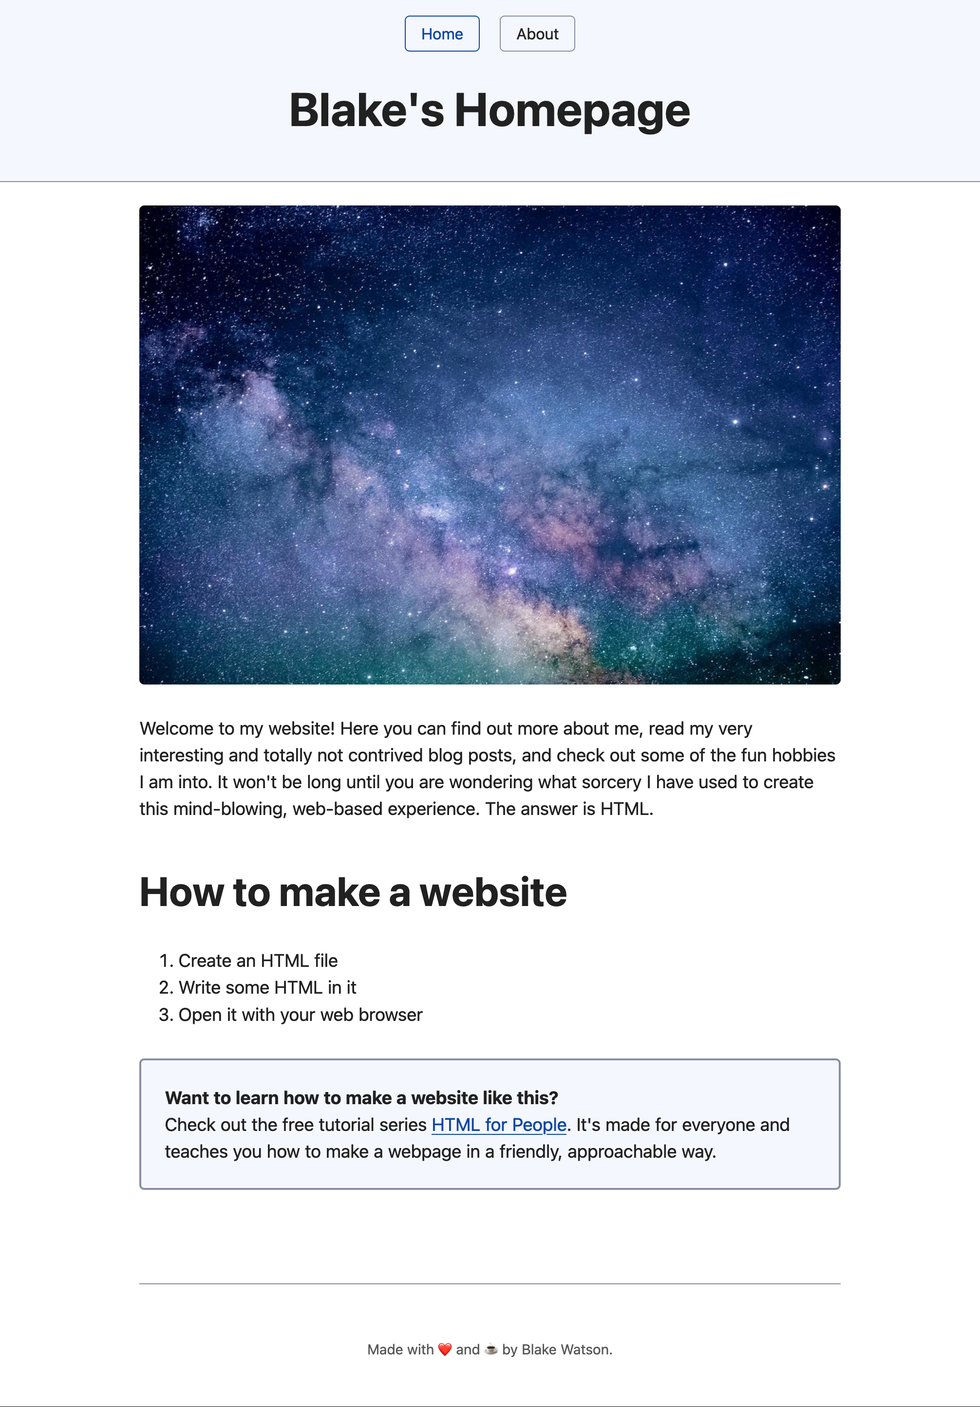
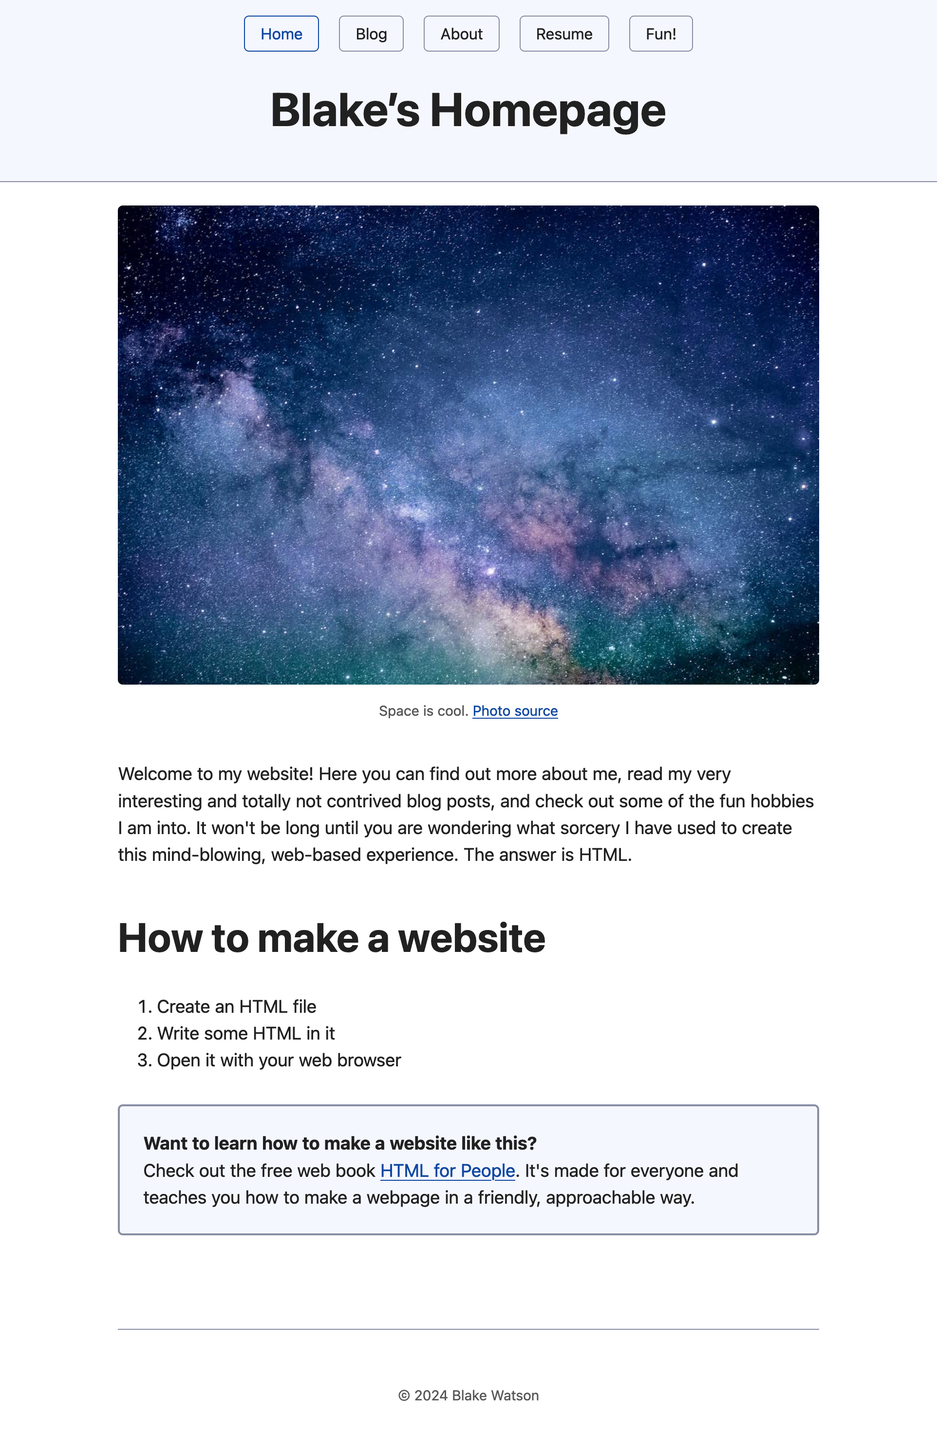
content fixes

diff --git a/src/assets/css/style.css b/src/assets/css/style.css
@@ -267,7 +267,7 @@ h2 {
 }
 
 h2 {
-  margin-block-start: 1.2em;
+  margin-block-start: 1.75em;
 }
 
 li::marker {

diff --git a/src/10-achievement-unlocked-hypertexter.md b/src/10-achievement-unlocked-hypertexter.md
@@ -30,14 +30,35 @@ So, where to now?
 
 We’ve made it through the main stuff I wanted to cover in _HTML for People_. That said there are a few topics I'd like to expand upon as something of an appendix to the main book.
 
-- **[[Customizing Simple.css]]**. Even without learning much CSS, you can change the appearance of your Simple site by overriding a few variables.
-- **[[CSS basics]]**. We'll remove Simple.css and learn how to write our own basic page styles with CSS.
-- **[[Reusable HTML with PHP]]**.  We'll take a look at how to reuse chunks of HTML—like a nav menu—by using PHP includes.
+- **[Customizing Simple.css](/customizing-simple-css)**. Even without learning much CSS, you can change the appearance of your Simple site by overriding a few variables.
+- **[CSS basics](/css-basics)**. Moving on from the Simple site, this side quest teaches you how to make a nicely designed webpage from scratch using CSS.
+- **[Reusable HTML with PHP](/reusable-html-with-php)**.  We'll take a look at how to reuse chunks of HTML—like a nav menu—by using PHP includes. This is a programming-lite introduction to dynamic websites.
 
-## Further learning
+## Resources from this book
 
-TODO: link out to third-party learning resources.
+I peppered in quite a few links along the way, pointing you to various demos and documentation. For convenience, here is a list of the main ones.
 
-- MDN
-- Kevin Powell (sp?)
-- Similar HTML/homepage guides
+### HTML for People
+
+- **[Blake's Homepage demo](https://demo.htmlforpeople.com/)**. This is my version of the site this book teaches you how to make. If you followed along and made your own site, [I'd love to here about it](https://blakewatson.com/about/#contact-me).
+- **[Blake’s Homepage source code](https://github.com/blakewatson/htmlforpeopledemo)**. This is the code repository for the demo site. Here you can browse all the code and download it if you'd like.
+- **[Blake’s Homepage, PHP version](https://github.com/blakewatson/htmlforpeopledemo/tree/php)**. This is another version of the source code where I converted the site to PHP as described in the bonus chapter, [Reusable HTML with PHP](/reusable-html-with-php).
+- **[Planets of the Solar System demo](https://planets.htmlforpeople.com/)**. This is a demo of the page we'll build in the bonus chapter, [CSS basics](/css-basics).
+- **[Planets of the Solar System source code](https://github.com/blakewatson/css-basics)**. This is the code repository for said webpage.
+
+### Helpful resources and documentation
+
+- **[MDN](https://developer.mozilla.org)**. If you need the details about a particular HTML tag, CSS property, or other specific technical info, this is the best place to get it. MDN is more or less the official user manual to website making.
+- **[Neocities](https://neocities.org/)** and [Neocities FAQs](https://neocities.org/contact). This is the web hosting service I chose to use in the book because it’s free and has a similar ethos (people-focused website creation). The FAQs have a lot of good information and insight into the service if you want more info about them.
+- **[Simple.css](https://simplecss.org/)**. This is the CSS framework we used throughout the book. They've got docs on how to use Simple.css as well as a demo of various HTML elements.
+- **[Butterick's Practical Typography](https://practicaltypography.com/)**. An excellent book about typography and design. If you’re short on time, check out [Typography in ten minutes](https://practicaltypography.com/typography-in-ten-minutes.html).
+- **[EntityCode](https://entitycode.com/)**. This is a reference of *HTML entities* you can use to reproduce special characters and symbols.
+- **[Coolers color contrast checker](https://coolors.co/contrast-checker)**. A nice tool for making sure your text and background colors have enough contrast to be legible.
+
+### Web hosts for static websites
+
+In addition to Neocities, there are some other good choices for hosting your HTML websites.
+
+- **[Yay.boo](https://yay.boo/):** Silly name, really easy website publishing. You just drag and drop a folder and pick a name and your website is online.
+- **[Glitch](https://glitch.com/):** This is a good option if you want to code everything directly in the browser. Build it then publish.
+- **[Netlify](https://www.netlify.com/):** More sophisticated, but has a [drag-and-drop-folder-to-publish](https://docs.netlify.com/site-deploys/create-deploys/#drag-and-drop) feature and gives you more developer-centric features.

diff --git a/src/06-adding-a-blog.md b/src/06-adding-a-blog.md
@@ -72,7 +72,7 @@ For now, while we are opening our website files directly in the browser, we're u
 
 I’m going to write a silly post about teaching a cat HTML. I'll create a file `2024-04-12-whiskers.html` in the `blog` folder. You can name your blog post file whatever you want. The nice thing about including the date is that, as you create more posts, they'll appear in order on your computer’s filesystem.
 
-We'll copy the contents of `blog/index.html` into our new file as a starting point. I'll change the `<h1>` (and the `<title>`) to be the name of my article, "How I taught my cat to make a website with HTML." I will also modify the navigation. We aren't on the Blog listing page, so it's not accurate to say `aria-current="page"` lon the blog nav link. But it *is* within the Blog section of the site. So I will change the attribute to the more general `aria-current="true"`. This is **only for individual blog post pages**.
+We'll copy the contents of `blog/index.html` into our new file as a starting point. I'll change the `<h1>` (and the `<title>`) to be the name of my article, "How I taught my cat to make a website with HTML." I will also modify the navigation. We aren't on the Blog listing page, so it's not accurate to say `aria-current="page"` on the blog nav link. But it *is* within the Blog section of the site. So I will change the attribute to the more general `aria-current="true"`. This is **only for individual blog post pages**.
 
 ```html
 <nav>
@@ -249,7 +249,9 @@ Another way to manually break up content is to use a _horizontal rule_, or `<hr>
 
 ![](/assets/img/adding-a-blog-7.png)
 
-**Note:** What’s up with the nonsensical text? It’s Latin-ish text called _[lorem ipsum](https://en.wikipedia.org/wiki/Lorem_ipsum)_ that is often used in design situations where you want to see what text looks like without being distracted by what the text says.
+{% aside 'Note' %}
+What’s up with the nonsensical text? It’s Latin-ish text called _[lorem ipsum](https://en.wikipedia.org/wiki/Lorem_ipsum)_ that is often used in design situations where you want to see what text looks like without being distracted by what the text says.
+{% endaside %}
 
 ## Code and pre-formatted text
 
@@ -311,7 +313,7 @@ Simple.css will put the aside in a box and shift it over to the side. This is a 
 
 ## Mark, strikethrough, deletion, insertion
 
-Here are some more text formatting tags for you. Use `<mark>` to <mark>highlight text</mark>. If you want strikethrough <s>unwanted</s> text, wrap it in the `<s>` tag. If you are explicitly showing edit to a document, prefer the `<del>` tag for indicating a deletion and the `<ins>` tag to show inserted text. For example, this is from my donut post.
+Here are some more text formatting tags for you. Use `<mark>` to <mark>highlight text</mark>. If you want strikethrough <s>unwanted</s> text, wrap it in the `<s>` tag. If you are explicitly showing edits to a document, prefer the `<del>` tag for indicating a deletion and the `<ins>` tag to show inserted text. For example, this is from my donut post.
 
 ![](/assets/img/adding-a-blog-11.png)
 

diff --git a/src/02-add-content-to-your-website.md b/src/02-add-content-to-your-website.md
@@ -160,6 +160,45 @@ Let’s save and refresh the browser.
 
 I resized the window so the whole page would fit in the screenshot, but if yours needs to be scrolled, that’s totally fine!
 
+## Add notes to your code
+
+Sometimes you want to put notes in your code—text you don’t want to display on the page, but that you'd like to be visible in the code. Reasons for doing this are to help organize a document, leave notes (like todos) to your future self, or even to hide some work-in-progress code that you don’t want to be displayed just yet.
+
+For example, I could leave myself a note to come back and update my favorite board games.
+
+```html
+<h2>Favorite board games</h2>
+
+<!-- Todo: after playing some new games,
+see if any deserve to make this list. -->
+
+<ul>
+    <li>Dungeons & Dragons</li>
+    <li>Risk</li>
+    <li>Pandemic</li>
+</ul>
+```
+
+Anything between `<!--` and `-->` is ignored by the browser and will not show up on the page. This is called a _comment_. Comments give you a nice way to annotate code since they're only visible in the code—not on the rendered webpage.
+
+Here’s another example where I've wrapped multiple HTML tags inside a comment. This means it won’t be displayed on the page at all.
+
+```html
+<!--
+Work in progress. When I finalize this list, I'll remove the comment markers.
+
+<h2>Favorite board games</h2>
+
+<ul>
+    <li>Dungeons & Dragons</li>
+    <li>Risk</li>
+    <li>Pandemic</li>
+</ul>
+-->
+```
+
+**Your HTML code is public, even the comments.** Anyone can _view source_ on your website to see the source code of your page. So don’t put anything secret or sensitive inside of comments. To view the source code of a page, you can press a keyboard shortcut or find the option in your web browser's menu. It varies by browser. Check out this [reference on Lifewire](https://www.lifewire.com/view-web-source-code-4151702).
+
 ## Give your website a head and a body
 
 I haven’t been totally honest with you so far. I’ve been having you take a shortcut. We’ve been writing _only_ the stuff the browser will display in our `index.html` file. But every website has an invisible section. And now yours needs it.
@@ -210,7 +249,9 @@ The `<title>` tag controls the text that appears in the browser tab for your web
 
 The `<meta>` tag can be used multiple times to provide the browser extra info about your page. In this case we’re telling it which _character set_ to use. All you need to know here is that UTF-8 text means special symbols and emoji will appear like you would expect them to.
 
-**Note:** If you’re getting confused by all the extra tags here, just know that you can copy and paste this starting code structure so that you don’t have to remember it all right now!
+{% aside 'Note' %}
+If you’re getting confused by all the extra tags here, just know that you can copy and paste this starting code structure so that you don’t have to remember it all right now!
+{% endaside %}
 
 Here’s the whole `index.html` file for reference:
 

diff --git a/src/07-adding-a-resume.md b/src/07-adding-a-resume.md
@@ -20,7 +20,9 @@ But if you’re not feeling the whole resume thing, that’s fine too. Feel free
 
 Create a top-level file, `resume.html`, and copy the contents of one of the other top-level pages into.
 
-**Note:** if you’re using Visual Studio Code, you can select one of the existing top-level pages in the sidebar, then copy and paste. A copy of the page will be created, which you can rename.
+{% aside 'Note' %}
+If you’re using Visual Studio Code, you can select one of the existing top-level pages in the sidebar, then copy and paste. A copy of the page will be created, which you can rename.
+{% endaside %}
 
 However you go about creating the file, be sure to update the `<title>`, `<h1>`, and `<nav>`. I’m going to put my name as the `<h1>` and my profession/summary below it in a `<p>` tag.
 
@@ -142,11 +144,15 @@ I'm going to be listing several job roles I've had so I’m using the title of t
 
 Another way you could do it is to put the employer’s name in the heading after the job title. I don’t think one way is more correct than the other and I prefer to reduce the amount of large text on the page.
 
-**Note:** We're working within the limitations of Simple.css right now. If we _really_ wanted to control the look of things, we'd add some custom CSS. We're not going to do that now, but see the bonus chapters at the end of the book for more about CSS.
+{% aside 'Note' %}
+We're working within the limitations of Simple.css right now. If we _really_ wanted to control the look of things, we'd add some custom CSS. We're not going to do that now, but see the bonus chapters at the end of the book for more about CSS.
+{% endaside %}
 
 We wrap the date in a `<time>` tag and provide the [machine-readable date](https://developer.mozilla.org/en-US/docs/Web/HTML/Element/time#valid_datetime_values) in the `datetime` _attribute_. To put a dash in between the start and end dates, I’m using an HTML _entity_, `&ndash;`. This is to use the _en dash_ character, which is a slightly longer dash than a regular hyphen (`-`) and is used for numeric ranges in typography (there’s also an _em dash_, `&mdash;`, which is an even larger dash—but I digress).
 
-**Note:** Check out this [list of HTML entities](https://entitycode.com/) for different special characters you can use in HTML.
+{% aside 'Note' %}
+Check out this [list of HTML entities](https://entitycode.com/) for different special characters you can use in HTML.
+{% endaside %}
 
 Finally, I use an _unordered list_ to provide bullet points about my role and responsibilities.
 

diff --git a/src/04-a-website-with-style.md b/src/04-a-website-with-style.md
@@ -30,7 +30,9 @@ CSS is a powerful language. Every website you see is using it. All of those intr
 
 But there is also a learning curve to CSS. And while I totally encourage you to explore it, this book is _HTML_ for People—I want to keep the focus on HTML. But that's okay! We can still use CSS to make our website look nice without having to write all of it ourselves.
 
-**Note:** If you’re interested in diving more into CSS, that’s great! I have [a bonus chapter](/css-basics) at the end of this book that introduces more CSS and links out to other resources.
+{% aside 'Note' %}
+If you’re interested in diving more into CSS, that’s great! I have [a bonus chapter](/css-basics) at the end of this book that introduces more CSS and links out to other resources.
+{% endaside %}
 
 ## CSS frameworks
 
@@ -95,7 +97,11 @@ We can add a _stylesheet_ to our page similar to how we added the image. We'll u
 
 The `<link>` tag is _self-closing_—there isn't a closing tag. We need to give it two _attributes_. `rel` specifies what relationship the file we're linking has with our webpage. CSS files are called _stylesheets_ so we provide that as the relationship (singular). The `href` is where we specify the file, including the folder path.
 
-**Note:** One point I will clarify because it is a little confusing. What people typically call "links" on a webpage—clickable text or images—are made with the `<a>` tag as we saw previously. They typically refer to a destination to navigate to when clicked. The `<link>` tag is specifying a file that we want to link to our page and what that file's relationship is. We are using it to connect a stylesheet. Another common relationship is to define an icon for the site, for example.
+{% aside 'Note' %}
+One point I will clarify because it is a little confusing. What people typically call "links" on a webpage—clickable text or images—are made with the `<a>` tag as we saw previously. They typically refer to a destination to navigate to when clicked.
+
+The `<link>` tag is specifying a file that we want to link to our page and what that file's relationship is. We are using it to connect a stylesheet. Another common relationship is to define an icon for the site, for example.
+{% endaside %}
 
 Just like that, our website is transformed. We are now seeing a centered page, larger text, and a sans-serif font.
 

diff --git a/src/05-adding-an-about-page.md b/src/05-adding-an-about-page.md
@@ -20,6 +20,8 @@ It has the following pages and features:
 - A digital resume
 - A fun page with embedded YouTube videos
 
+I will be including many code samples in the coming chapters, but at any point you can also go to the demo site and [view the source code](https://www.lifewire.com/view-web-source-code-4151702) of any page for reference.
+
 ## Pages are just files that you link to
 
 To create a new page on our site, we will first create a new file. Create `about.html` to go alongside `index.html`. To save some typing, copy the entire contents of `index.html` and paste it into `about.html`.
@@ -113,11 +115,25 @@ Load it up in the browser and marvel at your multi-page website! Click. Click. C
 
 Since we have an about page now, some of our homepage content is redundant. Some of this is on the about page now. I think I'll remove the bio text, the Neal.fun link, and the board games list. I will keep the space image and add a little welcome paragraph. Might as well keep the *how to make a website* list too.
 
+Although, speaking of the space image, let's make it a little more interesting. I would like to give this image a caption and include a link to where I got it. We can further mark up an image by wrapping it in a `<figure>` tag and including a `<figcaption>`.
+
+```html
+<figure>
+	<img src="/images/space.jpg" alt="Photograph of space with stars and stardust.">
+
+	<figcaption>Space is cool. <a href="https://unsplash.com/photos/blue-and-purple-galaxy-digital-wallpaper-E0AHdsENmDg">Photo source</a></figcaption>
+</figure>
+```
+
 My `<main>` content on the homepage now looks like this.
 
 ```html
 <main>
-	<img src="images/space.jpg" alt="Photograph of space with stars and stardust.">
+	<figure>
+		<img src="/images/space.jpg" alt="Photograph of space with stars and stardust.">
+	
+		<figcaption>Space is cool. <a href="https://unsplash.com/photos/blue-and-purple-galaxy-digital-wallpaper-E0AHdsENmDg">Photo source</a></figcaption>
+	</figure>
 	
 	<p>Welcome to my website! Here you can find out more about me, read my very interesting and totally not contrived blog posts, and check out some of the fun hobbies I am into. It won't be long until you are wondering what sorcery I have used to create this mind-blowing, web-based experience. The answer is HTML.</p>
 	

diff --git a/src/00-intro.md b/src/00-intro.md
@@ -27,20 +27,20 @@ You need a computer with internet access. I wrote this book in a generic way so 
 ## Table of contents
 
 1. [Zero to internet: your first website](/zero-to-internet-your-first-website)
-1. [Add content to your website](/add-content-to-your-website)
-1. [Intermission: upgrade your text editor](/intermission-upgrade-your-text-editor)
-1. [A website with style](/a-website-with-style)
-1. [Adding an about page](/adding-an-about-page)
-1. [Adding a blog](/adding-a-blog)
-1. [Adding a resume](/adding-a-resume)
-1. [Intermission: installing a local web server](/intermission-installing-a-local-web-server)
-1. [Adding a fun page](/adding-a-fun-page)
-1. [Achievement unlocked: Hypertexter](/achievement-unlocked-hypertexter)
+2. [Add content to your website](/add-content-to-your-website)
+3. [Intermission: upgrade your text editor](/intermission-upgrade-your-text-editor)
+4. [A website with style](/a-website-with-style)
+5. [Adding an about page](/adding-an-about-page)
+6. [Adding a blog](/adding-a-blog)
+7. [Adding a resume](/adding-a-resume)
+8. [Intermission: installing a local web server](/intermission-installing-a-local-web-server)
+9. [Adding a fun page](/adding-a-fun-page)
+10. [Achievement unlocked: Hypertexter](/achievement-unlocked-hypertexter)
 
 ### Bonus chapters
 
 This is the stuff I wanted to cover but felt that it was a little bit out of scope. CSS and PHP both have a bit of a steeper learning curve compared to HTML. I don't think they're out of reach for anyone who wants to explore them, though. And a little bit of both of them can go a long way. So this is my way of giving you a little taste of each one.
 
 1. [Customizing Simple.css](/customizing-simple-css)
-1. [CSS basics](/css-basics)
-1. [Reusable HTML with PHP](/reusable-html-with-php)
+2. [CSS basics](/css-basics)
+3. [Reusable HTML with PHP](/reusable-html-with-php)

diff --git a/src/09-adding-a-fun-page.md b/src/09-adding-a-fun-page.md
@@ -210,7 +210,11 @@ It's because I still have my website open as a file. This is a situation were we
 
 No worries, though! This is why we installed a local web server in the last part. If you haven't already, start your web server following whichever method you chose.
 
-**Note:** things get a little weird here unfortunately. Some of these server options such as Live Preview and Simple Web Server default to opening the browser at the IP address of `127.0.0.1`, which is essentially equivalent to `localhost`, the value other local servers use. For reasons I don't fully understand, the embedded videos will not work when accessing the site using the IP address. You need to be using `localhost`. Fortunately that is as easy as just manually replacing `127.0.0.1` with `localhost` in the address bar. If you are using Microsoft Live Preview, you will need to view the site in your web browser instead of the preview window.
+{% aside 'Note' %}
+Things get a little weird here unfortunately. Some of these server options such as Live Preview and Simple Web Server default to opening the browser at the IP address of `127.0.0.1`, which is essentially equivalent to `localhost`, the value other local servers use.
+
+For reasons I don't fully understand, the embedded videos will not work when accessing the site using the IP address. You need to be using `localhost`. Fortunately that is as easy as just manually replacing `127.0.0.1` with `localhost` in the address bar. If you are using Microsoft Live Preview, you will need to view the site in your web browser instead of the preview window.
+{% endaside %}
 
 I will be using [WorldWideWeb](https://iconfactory.com/worldwideweb/) for this example. Once I point it to my site folder and hit the play button, my server is running and I can visit it at the address provided.
 

diff --git a/src/12-css-basics.md b/src/12-css-basics.md
@@ -10,7 +10,9 @@ We'll look specifically at styling typographic elements to make a pleasant, read
 
 ## Introducing the planets of the solar system
 
-I put together this very simple HTML page that uses a handful of typographic elements and presents a good starting point for applying styles. You are, of course, free to use any content you want if you have something in mind. But you are also welcome to use the same HTML page that I will be using. You can see the source code either in your browser with the [view source command](https://www.lifewire.com/view-web-source-code-4151702) or by checking out the [code on GitHub](https://github.com/blakewatson/css-basics).
+I put together this very simple HTML page that uses a handful of typographic elements and presents a good starting point for applying styles. You are, of course, free to use any content you want if you have something in mind. But you are also welcome to use the same HTML page that I will be using.
+
+You can see the source code either in your browser with the [view source command](https://www.lifewire.com/view-web-source-code-4151702) or by checking out the [code on GitHub](https://github.com/blakewatson/css-basics). And you can [see the end result here](https://planets.htmlforpeople.com/) if you want a sneak peak of what it’ll look like.
 
 This page introduces the planets in the solar system and gives a little information about each one. It is super simple and basic on purpose. You can think of it as dummy text not really intended to be read seriously (but the information is accurate to the best of my knowledge).
 

diff --git a/src/11-customizing-simple-css.md b/src/11-customizing-simple-css.md
@@ -175,7 +175,7 @@ And here is a side by side preview of how the blog index page looks in light mod
 
 Some color combinations can make text hard to read because of limited contrast. You want to make sure that there is plenty of contrast between your text color and your background color.
 
-You can rely on your own eyes to an extent, but everyone is different. Fortunately there are standards around how much contrast text should have. You can use a handy [contrast checker like this one](https://coolors.co/contrast-checker/). You give it two colors and it will tell you if there is sufficient contrast between them.
+You can rely on your own eyes to an extent, but everyone is different. Fortunately there are standards around how much contrast text should have. You can use a handy [contrast checker like this one](https://coolors.co/contrast-checker). You give it two colors and it will tell you if there is sufficient contrast between them.
 
 ## Changing the font
 

diff --git a/src/03-intermission-upgrade-your-text-editor.md b/src/03-intermission-upgrade-your-text-editor.md
@@ -38,7 +38,9 @@ VS Code also helps by making it easier to write code. It understands HTML and ma
 
 VS Code opens your files in tabs. This is convenient later when your website has multiple pages.
 
-**Note:** VS Code lets lines of text scroll off the side of the page by default. If you would rather have text wrap to the next line, click the _View_ menu and choose _Word Wrap_.
+{% aside 'Note' %}
+VS Code lets lines of text scroll off the side of the page by default. If you would rather have text wrap to the next line, click the _View_ menu and choose _Word Wrap_.
+{% endaside %}
 
 ## Explore when you’re ready
 
